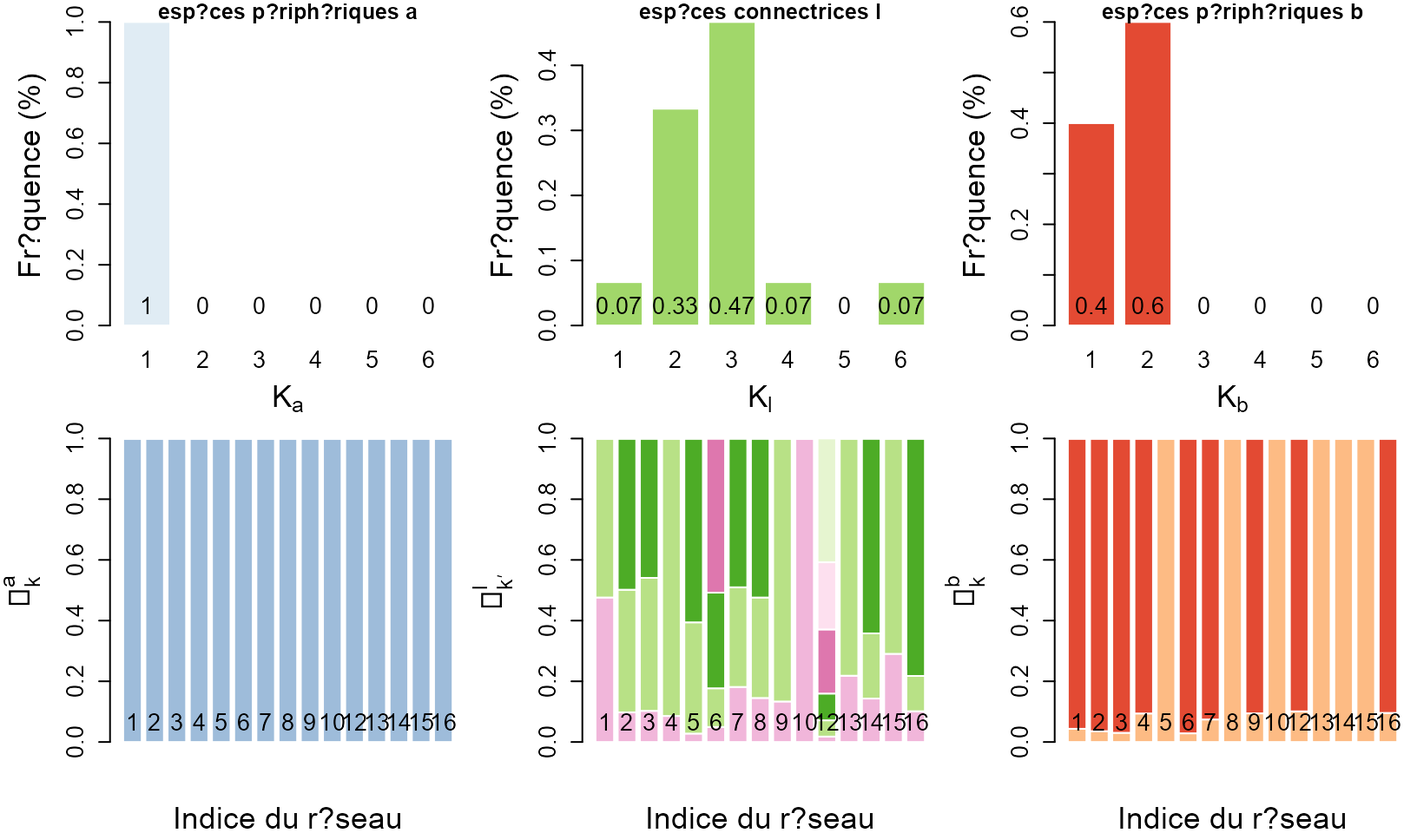
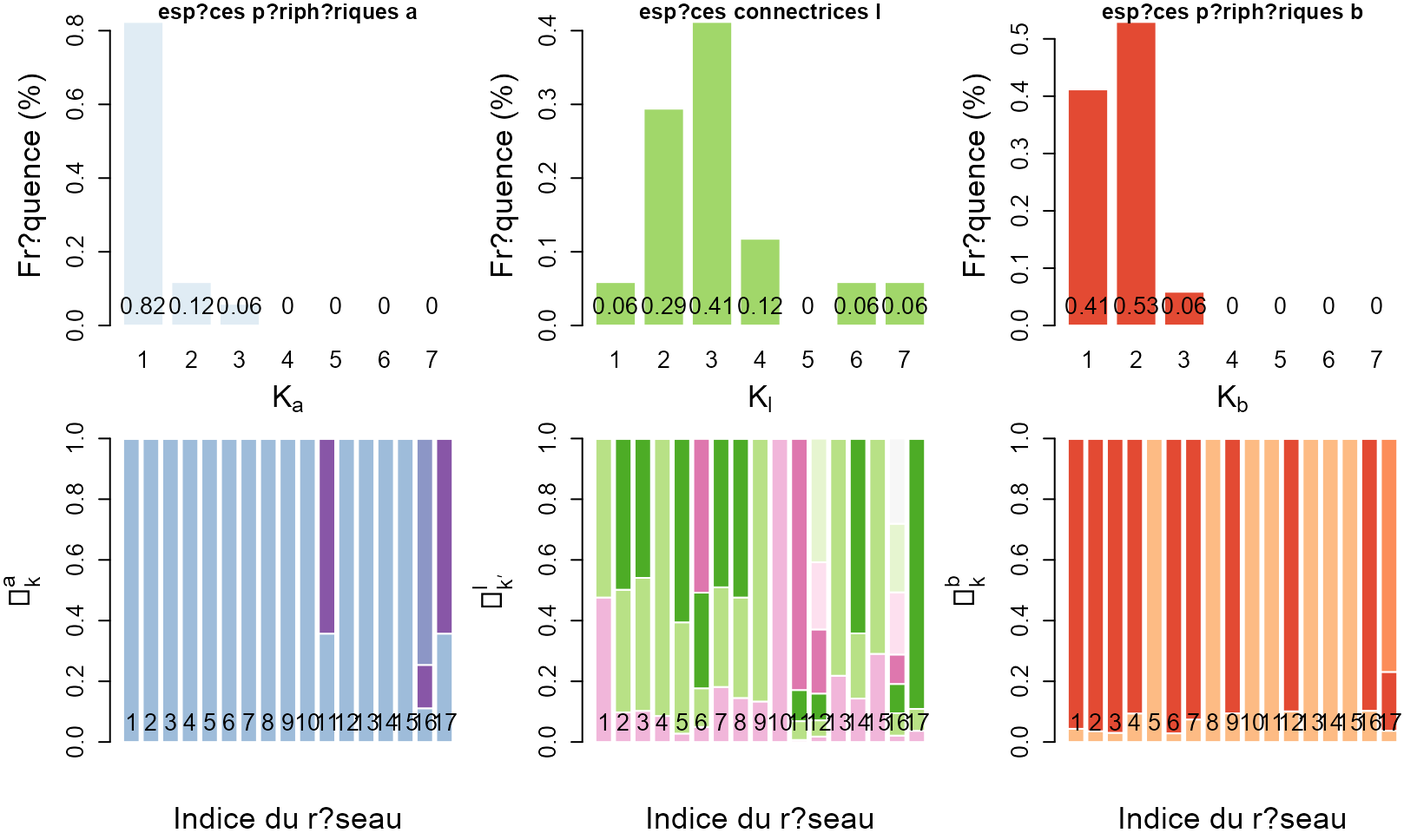
fixing vignette

diff --git a/docs/articles/Application_EcologicalNetworksDataset.html b/docs/articles/Application_EcologicalNetworksDataset.html
@@ -59,7 +59,14 @@
   </ul>
 </li>
       </ul>
-<ul class="nav navbar-nav navbar-right"></ul>
+<ul class="nav navbar-nav navbar-right">
+<li>
+  <a href="https://github.com/ferdinandcampos/analysisMultipartiteSBM/">
+    <span class="fab fa-github fa-lg"></span>
+     
+  </a>
+</li>
+      </ul>
 </div>
 <!--/.nav-collapse -->
   </div>
@@ -77,7 +84,7 @@
                         <h4 class="author">Ferdinand Campos</h4>
             
       
-      
+      <small class="dont-index">Source: <a href="https://github.com/ferdinandcampos/analysisMultipartiteSBM/blob/master/vignettes/Application_EcologicalNetworksDataset.Rmd"><code>vignettes/Application_EcologicalNetworksDataset.Rmd</code></a></small>
       <div class="hidden name"><code>Application_EcologicalNetworksDataset.Rmd</code></div>
 
     </div>
@@ -92,21 +99,21 @@
 <a href="#requirements" class="anchor"></a>Requirements</h3>
 <p>The packages required for the analysis are <strong>analysisMultipartiteSBM</strong> and some others for data manipulation or representation:</p>
 <div class="sourceCode" id="cb1"><pre class="downlit sourceCode r">
-<code class="sourceCode R"><span class="kw"><a href="https://rdrr.io/r/base/library.html">library</a></span><span class="op">(</span><span class="va">analysisMultipartiteSBM</span><span class="op">)</span></code></pre></div>
+<code class="sourceCode R"><span class="kw"><a href="https://rdrr.io/r/base/library.html">library</a></span><span class="op">(</span><span class="va"><a href="https://ferdinandcampos.github.io/analysisMultipartiteSBM">analysisMultipartiteSBM</a></span><span class="op">)</span></code></pre></div>
 </div>
 <div id="a-new-collection-of-networks" class="section level3">
 <h3 class="hasAnchor">
 <a href="#a-new-collection-of-networks" class="anchor"></a>A new collection of networks</h3>
-<p>Notre étude est motivée par une nouvelle collection de 42 réseaux tripartites récemment rassemblée et préparée par Virginia Domínguez-García dans <span class="citation"><a href="#ref-dominguez2021notes" role="doc-biblioref">Domínguez-García and Kéfi</a> (<a href="#ref-dominguez2021notes" role="doc-biblioref">In preparation</a>)</span> à partir des principales études écologiques multipartites existant dans la littérature. Les réseaux collectés sont issus de zones géographiques - et donc de type d’espèces, climat, nature des sols - différentes compte tenu de la grande variété des pays d’origine des études sources (<span class="citation"><a href="#ref-melian2009diversity" role="doc-biblioref">Melián et al.</a> (<a href="#ref-melian2009diversity" role="doc-biblioref">2009</a>)</span>, <span class="citation"><a href="#ref-shinohara2019contrasting" role="doc-biblioref">Shinohara, Uchida, and Yoshida</a> (<a href="#ref-shinohara2019contrasting" role="doc-biblioref">2019</a>)</span>, <span class="citation"><a href="#ref-pocock2012robustness" role="doc-biblioref">Pocock, Evans, and Memmott</a> (<a href="#ref-pocock2012robustness" role="doc-biblioref">2012</a>)</span>, <span class="citation"><a href="#ref-hackett2019reshaping" role="doc-biblioref">Hackett et al.</a> (<a href="#ref-hackett2019reshaping" role="doc-biblioref">2019</a>)</span>, <span class="citation"><a href="#ref-macfadyen2009differences" role="doc-biblioref">Macfadyen et al.</a> (<a href="#ref-macfadyen2009differences" role="doc-biblioref">2009</a>)</span> et <span class="citation"><a href="#ref-dattilo2016unravelling" role="doc-biblioref">Dáttilo et al.</a> (<a href="#ref-dattilo2016unravelling" role="doc-biblioref">2016</a>)</span>). Il s’agit néanmoins du premier jeu de réseaux écologiques multipartites réels unifiant différents travaux écologiques et le seul de cette ampleur. Les données comprennent 44 réseaux tripartites structurés comme ci-dessus, dont les deux interactions bipartites sont de trois natures différentes : mutualiste–antagoniste (MA), antagoniste–antagoniste (AA) et mutualiste–mutualiste (MM).</p>
-<p>Les données utilisées sont les 17 réseaux de type mutualiste-antagoniste (MA) de ce jeu de données tripartites. Les interactions de ces 17 réseaux sont de deux types, herbivorie–pollinisation (i.e. a sont des herbivores, l des plantes et b des pollinisateurs) pour 16 d’entre eux et herbivorie–dispersion de graines (i.e. a sont des herbivores, l des plantes et b des espèces qui disséminent des graines) pour un d’entre eux. Par souci de clarté, on utilisera l’appellation commune d’espèces mutualistes pour l’ensemble des 17 réseaux.</p>
-<div class="sourceCode" id="cb2"><pre class="downlit sourceCode r">
-<code class="sourceCode R"><span class="fu"><a href="https://rdrr.io/r/utils/data.html">data</a></span><span class="op">(</span><span class="va">ecologicalNetworksDataset</span><span class="op">)</span></code></pre></div>
+<p>Notre étude est motivée par une nouvelle collection de réseaux tripartites récemment rassemblée et préparée par Virginia Domínguez-García dans <span class="citation"><a href="#ref-dominguez2021notes" role="doc-biblioref">Domínguez-García and Kéfi</a> (<a href="#ref-dominguez2021notes" role="doc-biblioref">In preparation</a>)</span> à partir des principales études écologiques multipartites existant dans la littérature. Les réseaux collectés sont issus de zones géographiques - et donc de type d’espèces, climat, nature des sols - différentes compte tenu de la grande variété des pays d’origine des études sources (<span class="citation"><a href="#ref-melian2009diversity" role="doc-biblioref">Melián et al.</a> (<a href="#ref-melian2009diversity" role="doc-biblioref">2009</a>)</span>, <span class="citation"><a href="#ref-shinohara2019contrasting" role="doc-biblioref">Shinohara, Uchida, and Yoshida</a> (<a href="#ref-shinohara2019contrasting" role="doc-biblioref">2019</a>)</span>, <span class="citation"><a href="#ref-pocock2012robustness" role="doc-biblioref">Pocock, Evans, and Memmott</a> (<a href="#ref-pocock2012robustness" role="doc-biblioref">2012</a>)</span>, <span class="citation"><a href="#ref-hackett2019reshaping" role="doc-biblioref">Hackett et al.</a> (<a href="#ref-hackett2019reshaping" role="doc-biblioref">2019</a>)</span>, <span class="citation"><a href="#ref-macfadyen2009differences" role="doc-biblioref">Macfadyen et al.</a> (<a href="#ref-macfadyen2009differences" role="doc-biblioref">2009</a>)</span> et <span class="citation"><a href="#ref-dattilo2016unravelling" role="doc-biblioref">Dáttilo et al.</a> (<a href="#ref-dattilo2016unravelling" role="doc-biblioref">2016</a>)</span>). Il s’agit néanmoins du premier jeu de réseaux écologiques multipartites réels unifiant différents travaux écologiques et le seul de cette ampleur. Les données comprennent <span class="math inline">\(44\)</span> réseaux tripartites, dont les deux interactions bipartites sont de trois natures différentes : mutualiste–antagoniste (MA), antagoniste–antagoniste (AA) et mutualiste–mutualiste (MM).</p>
+<p>La structure de ces réseaux est la suivante : si l’ensemble des groupes d’espèces (GE) est donné par <span class="math inline">\(\{a,l,b\}\)</span> on suppose aussi que les seules interactions possibles sont données par <span class="math inline">\(\mathcal E=\{(a,l),(b,l)\}\)</span> ; il y a deux interactions bipartites <span class="math inline">\(a\leftrightarrow l\)</span> et <span class="math inline">\(b\leftrightarrow l\)</span>, entre chacun des groupes de périphériques (i.e. contenant des espèces périphériques) <span class="math inline">\(a\)</span> ou <span class="math inline">\(b\)</span> et le groupe des connecteurs <span class="math inline">\(l\)</span> (linking set) qui contient les espèces connectrices.</p>
+<p>Les données utilisées dans notre étude sont les <span class="math inline">\(17\)</span> réseaux de type mutualiste-antagoniste (MA) de ce jeu de données tripartites. Les interactions de ces <span class="math inline">\(17\)</span> réseaux sont de deux types, herbivorie–pollinisation (i.e. a sont des herbivores, l des plantes et b des pollinisateurs) pour <span class="math inline">\(16\)</span> d’entre eux et herbivorie–dispersion de graines (i.e. a sont des herbivores, l des plantes et b des espèces qui disséminent des graines) pour un d’entre eux. Par souci de clarté, on utilisera l’appellation commune d’espèces mutualistes pour l’ensemble des <span class="math inline">\(17\)</span> réseaux.</p>
+<p>Pour des questions de publication de données, le jeu de réseaux d’origine <span class="math inline">\(\texttt{ecologicalNetworksDataset}\)</span> (avant ou après calibration MBM) n’est pas rendu disponible ici. On peut néanmoins charger le résultat du calcul des métriques sur les blocs (voir plus bas).</p>
 </div>
 <div id="preparation-of-the-data" class="section level3">
 <h3 class="hasAnchor">
 <a href="#preparation-of-the-data" class="anchor"></a>Preparation of the data</h3>
-<div class="sourceCode" id="cb3"><pre class="downlit sourceCode r">
-<code class="sourceCode R"><span class="va">dataset_path</span><span class="op">=</span><span class="st">""</span>
+<div class="sourceCode" id="cb2"><pre class="downlit sourceCode r">
+<code class="sourceCode R"><span class="va">dataset_path</span><span class="op">=</span><span class="st">"data/ecologicalNetworksDataset/"</span>
 <span class="va">dataset_names_MA</span> <span class="op">&lt;-</span> <span class="fu"><a href="https://rdrr.io/r/base/c.html">c</a></span><span class="op">(</span><span class="st">'Sinohara_1_ALL_PH'</span>, <span class="st">'Sinohara_2_ALL_PH'</span>, <span class="st">'Sinohara_3_ALL_PH'</span>, <span class="st">'Sinohara_4_ALL_PH'</span>, <span class="st">'Sinohara_ALL_A_PH'</span>, 
                       <span class="st">'Sinohara_ALL_E_PH'</span>, <span class="st">'Sinohara_ALL_I_PH'</span>, <span class="st">'Sinohara_2_E_PH'</span>, <span class="st">'Sinohara_3_E_PH'</span>, <span class="st">'Sinohara_4_I_PH'</span>, 
                       <span class="st">'Melian_OO_OO_PH'</span>, <span class="st">'Hackett_1_ALL_PH'</span>, <span class="st">'Hackett_2_ALL_PH'</span>, <span class="st">'Hackett_1_S_PH'</span>, <span class="st">'Hackett_1_GL_PH'</span>,
@@ -114,10 +121,7 @@
 
 
 <span class="va">dataset_names</span><span class="op">&lt;-</span><span class="va">dataset_names_MA</span>
-<span class="va">Indices</span><span class="op">=</span><span class="fl">1</span><span class="op">:</span><span class="fl">17</span>
-<span class="va">study_insectes_only</span><span class="op">=</span><span class="cn">FALSE</span>
-<span class="kw">if</span> <span class="op">(</span><span class="va">study_insectes_only</span><span class="op">)</span><span class="op">{</span><span class="va">dataset_names</span><span class="op">[</span><span class="fl">16</span><span class="op">]</span><span class="op">&lt;-</span><span class="st">"PocockInsects_OO_OO_PH"</span>
-                         <span class="va">Indices</span><span class="op">&lt;-</span><span class="va">Indices</span><span class="op">[</span><span class="op">-</span><span class="fu"><a href="https://rdrr.io/r/base/c.html">c</a></span><span class="op">(</span><span class="fl">11</span>,<span class="fl">17</span><span class="op">)</span><span class="op">]</span><span class="op">}</span></code></pre></div>
+<span class="va">Indices</span><span class="op">=</span><span class="fl">1</span><span class="op">:</span><span class="fl">17</span></code></pre></div>
 </div>
 <div id="multipartite-block-model-mbm" class="section level3">
 <h3 class="hasAnchor">
@@ -145,12 +149,36 @@ X^{qq^\prime}_{ii^\prime} = \left\{
 <div id="calibrate-mbm-and-compute-metrics" class="section level3">
 <h3 class="hasAnchor">
 <a href="#calibrate-mbm-and-compute-metrics" class="anchor"></a>Calibrate MBM and compute metrics</h3>
-<p>Pour chaque réseau tripartite individuel, on calibre MBM et puis on s’intéresse aux blocs inférés dans les trois groupes d’espèces (GE). On fait le choix des 5 métriques suivantes pour classifier les blocs du groupe des connecteurs <span class="math inline">\(l\)</span>, définies pour chaque bloc <span class="math inline">\(k^\prime\in1,\dots,K_l\)</span> d’un groupe de connecteurs <span class="math inline">\(l\)</span> donné : <span class="math display">\[\left(\bar{c}_a, \bar{c}_b, \textrm{PR}_b^{sym}, \bar{c}_a^{\textrm{N}}, \bar{c}_b^{\textrm{N}}\right).\]</span></p>
+<p>Pour chaque réseau tripartite individuel, on calibre MBM et puis on s’intéresse aux blocs inférés dans les trois groupes d’espèces (GE). On fait le choix des <span class="math inline">\(5\)</span> métriques suivantes pour classifier les blocs du groupe des connecteurs <span class="math inline">\(l\)</span>, définies pour chaque bloc <span class="math inline">\(k^\prime\in1,\dots,K_l\)</span> d’un groupe de connecteurs <span class="math inline">\(l\)</span> donné : <span class="math display">\[\left(\bar{c}_a, \bar{c}_b, \textrm{PR}_b^{sym}, \bar{c}_a^{\textrm{N}}, \bar{c}_b^{\textrm{N}}\right).\]</span> On peut calculer les valeurs de métriques sur les blocs des <span class="math inline">\(17\)</span> réseaux grâce aux commandes suivantes.</p>
+<div class="sourceCode" id="cb3"><pre class="downlit sourceCode r">
+<code class="sourceCode R"><span class="va">analyseENetDataset</span><span class="op">&lt;-</span><span class="fu"><a href="../reference/analysisTripartiteSBM.html">analysisTripartiteSBM</a></span><span class="op">(</span><span class="va">dataset_path</span>,<span class="va">dataset_names</span>,<span class="va">Indices</span>,quiet<span class="op">=</span><span class="cn">TRUE</span><span class="op">)</span></code></pre></div>
+<p>On peut aussi directement charger depuis le package la table <span class="math inline">\(\texttt{analyseENetDataset}\)</span> contenant ces valeurs.</p>
 <div class="sourceCode" id="cb4"><pre class="downlit sourceCode r">
-<code class="sourceCode R"><span class="co">#analyse&lt;-analysisTripartiteSBM(dataset_path,dataset_names,Indices,quiet=TRUE)</span>
+<code class="sourceCode R"><span class="fu"><a href="https://rdrr.io/r/utils/data.html">data</a></span><span class="op">(</span><span class="va">analyseEcologicalNetworksDataset</span><span class="op">)</span>
 
-<span class="kw">if</span> <span class="op">(</span><span class="op">!</span><span class="va">study_insectes_only</span><span class="op">)</span><span class="op">{</span><span class="va">analyse</span><span class="op">&lt;-</span><span class="fu">read.xlsx</span><span class="op">(</span><span class="st">"data/analyse_réseaux_réels_6.xlsx"</span>,<span class="fl">1</span>, colNames<span class="op">=</span> <span class="cn">TRUE</span><span class="op">)</span>
-<span class="op">}</span> <span class="kw">else</span><span class="op">{</span><span class="va">analyse</span><span class="op">&lt;-</span><span class="fu">read.xlsx</span><span class="op">(</span><span class="st">"data/analyse_réseaux_réels_8_all_insects.xlsx"</span>,<span class="fl">1</span>, colNames<span class="op">=</span> <span class="cn">TRUE</span><span class="op">)</span><span class="op">}</span></code></pre></div>
+<span class="fu"><a href="https://rdrr.io/r/utils/str.html">str</a></span><span class="op">(</span><span class="va">analyseENetDataset</span><span class="op">)</span>
+<span class="co">#&gt; 'data.frame':    102 obs. of  21 variables:</span>
+<span class="co">#&gt;  $ network_id     : num  1 1 1 1 1 2 2 2 2 2 ...</span>
+<span class="co">#&gt;  $ network_name   : chr  "Sinohara_1_ALL_PH" "Sinohara_1_ALL_PH" "Sinohara_1_ALL_PH" "Sinohara_1_ALL_PH" ...</span>
+<span class="co">#&gt;  $ nb_nodes       : num  91 91 91 91 91 108 108 108 108 108 ...</span>
+<span class="co">#&gt;  $ nb_nodes_plants: num  42 42 42 42 42 41 41 41 41 41 ...</span>
+<span class="co">#&gt;  $ nb_nodes_polli : num  23 23 23 23 23 28 28 28 28 28 ...</span>
+<span class="co">#&gt;  $ nb_nodes_herbi : num  26 26 26 26 26 39 39 39 39 39 ...</span>
+<span class="co">#&gt;  $ nb_plants_clust: num  2 2 2 2 2 3 3 3 3 3 ...</span>
+<span class="co">#&gt;  $ nb_polli_clust : num  2 2 2 2 2 2 2 2 2 2 ...</span>
+<span class="co">#&gt;  $ nb_herbi_clust : num  1 1 1 1 1 1 1 1 1 1 ...</span>
+<span class="co">#&gt;  $ FG             : chr  "plants" "plants" "pollination" "pollination" ...</span>
+<span class="co">#&gt;  $ cluster_id     : chr  "1" "2" "1" "2" ...</span>
+<span class="co">#&gt;  $ cluster_pi     : num  0.4762 0.5238 0.0435 0.9565 1 ...</span>
+<span class="co">#&gt;  $ c_inter1       : num  0.2652 -0.2411 1.5157 -0.0689 NA ...</span>
+<span class="co">#&gt;  $ c_inter2       : num  -0.1 0.0909 NA NA 0 ...</span>
+<span class="co">#&gt;  $ c_tot          : num  0.0714 -0.0649 1.5157 -0.0689 0 ...</span>
+<span class="co">#&gt;  $ c_tot_sym      : num  0.0826 -0.0751 1.5157 -0.0689 0 ...</span>
+<span class="co">#&gt;  $ PR_inter1      : num  0.87 0.158 NA NA NA ...</span>
+<span class="co">#&gt;  $ PR_inter1_sym  : num  0.883 0.175 NA NA NA ...</span>
+<span class="co">#&gt;  $ cKnn_inter1    : num  0.0272 -0.304 0.0322 -0.0122 NA ...</span>
+<span class="co">#&gt;  $ cKnn_inter2    : num  0 0 NA NA 0 0 0 0 NA NA ...</span>
+<span class="co">#&gt;  $ cKnn_tot       : num  0.0043 -0.048 0.0322 -0.0122 0 ...</span></code></pre></div>
 </div>
 </div>
 <div id="caracterisation-of-the-ecological-structure" class="section level2">
@@ -161,65 +189,100 @@ X^{qq^\prime}_{ii^\prime} = \left\{
 <a href="#blocks-analysis" class="anchor"></a>Blocks analysis</h3>
 <p>Les données issues des réseaux représentent <span class="math inline">\(N=53\)</span> blocs <span class="math inline">\(k^\prime\)</span> de plantes à classifier, en interactions avec <span class="math inline">\(21\)</span> blocs d’herbivores et <span class="math inline">\(28\)</span> blocs de mutualistes.</p>
 <div class="sourceCode" id="cb5"><pre class="downlit sourceCode r">
-<code class="sourceCode R"><span class="fu">plotAnalysisTripartiteSBM</span><span class="op">(</span><span class="va">analyse</span><span class="op">)</span></code></pre></div>
+<code class="sourceCode R"><span class="fu"><a href="../reference/plotAnalysisTripartiteSBM.html">plotAnalysisTripartiteSBM</a></span><span class="op">(</span><span class="va">analyseENetDataset</span>,new.window<span class="op">=</span><span class="cn">FALSE</span><span class="op">)</span></code></pre></div>
+<p><img src="Application_EcologicalNetworksDataset_files/figure-html/plot%20block%20analysis-1.png" width="816"></p>
 </div>
 <div id="preparation-of-caracterisation" class="section level3">
 <h3 class="hasAnchor">
 <a href="#preparation-of-caracterisation" class="anchor"></a>Preparation of caracterisation</h3>
 <div class="sourceCode" id="cb6"><pre class="downlit sourceCode r">
 <code class="sourceCode R"><span class="va">FG</span><span class="op">=</span><span class="st">"plants"</span>
-<span class="kw">if</span> <span class="op">(</span><span class="op">!</span><span class="va">study_insectes_only</span><span class="op">)</span><span class="op">{</span><span class="co">#For our analysis 1</span>
-                          <span class="va">analysePlants</span><span class="op">&lt;-</span><span class="va">analyse</span><span class="op">[</span><span class="va">analyse</span><span class="op">$</span><span class="va">FG</span><span class="op">==</span><span class="va">FG</span>,<span class="op">]</span>
-                          <span class="va">metrics</span><span class="op">&lt;-</span><span class="fu"><a href="https://rdrr.io/r/base/c.html">c</a></span><span class="op">(</span><span class="st">"c_inter1"</span>,<span class="st">"c_inter2"</span>,<span class="st">"PR_inter1_sym"</span>,<span class="st">"cKnn_inter1"</span>,<span class="st">"cKnn_inter2"</span><span class="op">)</span>
-                          <span class="va">order_clusters</span><span class="op">&lt;-</span><span class="fu"><a href="https://rdrr.io/r/base/c.html">c</a></span><span class="op">(</span><span class="fl">1</span>,<span class="fl">3</span>,<span class="fl">2</span>,<span class="fl">5</span>,<span class="fl">4</span>,<span class="fl">6</span><span class="op">)</span>
-                          <span class="va">nb_clusters</span><span class="op">&lt;-</span><span class="fl">6</span>
-                          <span class="va">plotIndicesblocs</span><span class="op">&lt;-</span><span class="fl">1</span><span class="op">:</span><span class="fu"><a href="https://rdrr.io/r/base/nrow.html">nrow</a></span><span class="op">(</span><span class="va">analysePlants</span><span class="op">)</span>
-<span class="op">}</span><span class="kw">else</span><span class="op">{</span><span class="co">#For our analysis 2 (insects only)</span>
-      <span class="va">analysePlants</span><span class="op">&lt;-</span><span class="va">analyse</span><span class="op">[</span><span class="va">analyse</span><span class="op">$</span><span class="va">FG</span><span class="op">==</span><span class="va">FG</span>,<span class="op">]</span>
-      <span class="va">metrics</span><span class="op">&lt;-</span><span class="fu"><a href="https://rdrr.io/r/base/c.html">c</a></span><span class="op">(</span><span class="st">"c_inter1"</span>,<span class="st">"c_inter2"</span>,<span class="st">"PR_inter1_sym"</span>,<span class="st">"cKnn_inter1"</span><span class="op">)</span>
-      <span class="va">order_clusters</span><span class="op">&lt;-</span><span class="fu"><a href="https://rdrr.io/r/base/c.html">c</a></span><span class="op">(</span><span class="fl">2</span>,<span class="fl">1</span>,<span class="fl">3</span>,<span class="fl">5</span>,<span class="fl">4</span><span class="op">)</span>
-      <span class="va">nb_clusters</span><span class="op">&lt;-</span><span class="fl">5</span>
-      <span class="va">plotIndicesblocs</span><span class="op">&lt;-</span><span class="fl">1</span><span class="op">:</span><span class="fu"><a href="https://rdrr.io/r/base/nrow.html">nrow</a></span><span class="op">(</span><span class="va">analysePlants</span><span class="op">)</span>
-      <span class="va">plotIndicesblocs</span><span class="op">&lt;-</span><span class="va">plotIndicesblocs</span><span class="op">[</span><span class="op">-</span><span class="fu"><a href="https://rdrr.io/r/base/c.html">c</a></span><span class="op">(</span><span class="fl">27</span>,<span class="fl">28</span>,<span class="fl">29</span>,<span class="fl">30</span><span class="op">)</span><span class="op">]</span> <span class="co">#on enl?ve les 4 indices propres au r?seau 11 removed</span>
-      <span class="va">last_indice_blocs</span><span class="op">&lt;-</span><span class="va">plotIndicesblocs</span><span class="op">[</span><span class="fu"><a href="https://rdrr.io/r/base/length.html">length</a></span><span class="op">(</span><span class="va">plotIndicesblocs</span><span class="op">)</span><span class="op">]</span>
-      <span class="va">plotIndicesblocs</span><span class="op">&lt;-</span><span class="fu"><a href="https://rdrr.io/r/base/c.html">c</a></span><span class="op">(</span><span class="va">plotIndicesblocs</span>,<span class="va">last_indice_blocs</span><span class="op">+</span><span class="fl">1</span>,<span class="va">last_indice_blocs</span><span class="op">+</span><span class="fl">2</span>,<span class="va">last_indice_blocs</span><span class="op">+</span><span class="fl">3</span>,<span class="va">last_indice_blocs</span><span class="op">+</span><span class="fl">4</span><span class="op">)</span> <span class="co">#on ajoute 4 derniers num?ros</span>
-<span class="op">}</span></code></pre></div>
+<span class="va">analysePlants</span><span class="op">&lt;-</span><span class="va">analyseENetDataset</span><span class="op">[</span><span class="va">analyseENetDataset</span><span class="op">$</span><span class="va">FG</span><span class="op">==</span><span class="va">FG</span>,<span class="op">]</span>
+<span class="va">metrics</span><span class="op">&lt;-</span><span class="fu"><a href="https://rdrr.io/r/base/c.html">c</a></span><span class="op">(</span><span class="st">"c_inter1"</span>,<span class="st">"c_inter2"</span>,<span class="st">"PR_inter1_sym"</span>,<span class="st">"cKnn_inter1"</span>,<span class="st">"cKnn_inter2"</span><span class="op">)</span>
+<span class="va">order_clusters</span><span class="op">&lt;-</span><span class="fu"><a href="https://rdrr.io/r/base/c.html">c</a></span><span class="op">(</span><span class="fl">1</span>,<span class="fl">3</span>,<span class="fl">2</span>,<span class="fl">5</span>,<span class="fl">4</span>,<span class="fl">6</span><span class="op">)</span>
+<span class="va">nb_clusters</span><span class="op">&lt;-</span><span class="fl">6</span>
+<span class="va">plotIndicesblocs</span><span class="op">&lt;-</span><span class="fl">1</span><span class="op">:</span><span class="fu"><a href="https://rdrr.io/r/base/nrow.html">nrow</a></span><span class="op">(</span><span class="va">analysePlants</span><span class="op">)</span></code></pre></div>
 </div>
 <div id="clustering-analysis-to-caracterise-blocks-of-plants" class="section level3">
 <h3 class="hasAnchor">
 <a href="#clustering-analysis-to-caracterise-blocks-of-plants" class="anchor"></a>Clustering analysis to caracterise blocks of plants</h3>
 <div class="sourceCode" id="cb7"><pre class="downlit sourceCode r">
-<code class="sourceCode R"><span class="va">caracterisation</span><span class="op">&lt;-</span><span class="fu">caracTripartiteSBM</span><span class="op">(</span><span class="va">analysePlants</span>,<span class="va">metrics</span>,order_clusters<span class="op">=</span><span class="va">order_clusters</span><span class="op">)</span>
+<code class="sourceCode R"><span class="va">caracterisation</span><span class="op">&lt;-</span><span class="fu"><a href="../reference/caracTripartiteSBM.html">caracTripartiteSBM</a></span><span class="op">(</span><span class="va">analysePlants</span>,<span class="va">metrics</span>,<span class="va">nb_clusters</span><span class="op">)</span>
 
-<span class="va">caracterisation</span><span class="op">$</span><span class="va">centers</span></code></pre></div>
+<span class="va">caracterisation</span><span class="op">$</span><span class="va">centers</span>
+<span class="co">#&gt;     c_inter1   c_inter2 PR_inter1_sym cKnn_inter1 cKnn_inter2</span>
+<span class="co">#&gt; 1  0.1113756 -0.6085195     0.8597163   0.1548651  0.11727960</span>
+<span class="co">#&gt; 2 -0.5582043  0.2885937    -0.9192510  -0.7329250  0.04028911</span>
+<span class="co">#&gt; 3  2.8457136  1.0367753     0.7689613  -0.6906359  0.07255068</span>
+<span class="co">#&gt; 4  0.8952272  4.6687678    -0.4288273  -0.4471173  0.10890542</span>
+<span class="co">#&gt; 5 -0.5561838  0.2160028    -1.1429030   2.0279819  0.33243244</span>
+<span class="co">#&gt; 6 -0.2826292 -1.4540790     0.3644965   0.4030125 -8.18743083</span></code></pre></div>
 <div class="sourceCode" id="cb8"><pre class="downlit sourceCode r">
-<code class="sourceCode R"><span class="fu">plotCaracTripartiteSBM</span><span class="op">(</span><span class="va">caracterisation</span>,<span class="va">plotIndicesblocs</span><span class="op">)</span></code></pre></div>
+<code class="sourceCode R"><span class="fu"><a href="../reference/plotCaracTripartiteSBM.html">plotCaracTripartiteSBM</a></span><span class="op">(</span><span class="va">caracterisation</span>,new.window<span class="op">=</span><span class="cn">FALSE</span><span class="op">)</span></code></pre></div>
+<p><img src="Application_EcologicalNetworksDataset_files/figure-html/plot%20block%20caracterisation-1.png" width="768"></p>
 </div>
 </div>
-<div id="additionnal-analyses" class="section level2">
+<div id="additional-analyses" class="section level2">
 <h2 class="hasAnchor">
-<a href="#additionnal-analyses" class="anchor"></a>Additionnal analyses</h2>
-<div id="second-application-insects-only" class="section level3">
-<h3 class="hasAnchor">
-<a href="#second-application-insects-only" class="anchor"></a>Second application, insects only</h3>
-<div class="sourceCode" id="cb9"><pre class="downlit sourceCode r">
-<code class="sourceCode R"><span class="va">study_insectes_only</span><span class="op">=</span><span class="cn">TRUE</span></code></pre></div>
-</div>
+<a href="#additional-analyses" class="anchor"></a>Additional analyses</h2>
 <div id="appendix-1-functional-cartography" class="section level3">
 <h3 class="hasAnchor">
 <a href="#appendix-1-functional-cartography" class="anchor"></a>Appendix 1 : functional cartography</h3>
-<p>Une façon d’illustrer les connectances partielles et taux de participation réside dans l’outil de la cartographie fonctionnelle (<span class="math inline">\(\textit{functional cartography}\)</span>) introduite en écologie dans le célèbre <span class="citation"><a href="#ref-Guimera2005A" role="doc-biblioref">Guimerà and Amaral</a> (<a href="#ref-Guimera2005A" role="doc-biblioref">2005</a>)</span>, qui trace et classe des espèces dans un plan du type <span class="math inline">\((\textit{taux de participation}, \textit{degré})\)</span>.</p>
-<div class="sourceCode" id="cb10"><pre class="downlit sourceCode r">
-<code class="sourceCode R"><span class="fu">plotFunctionalCartography</span><span class="op">(</span><span class="va">analyse</span><span class="op">)</span></code></pre></div>
+<p>Une façon d’illustrer les connectances partielles et taux de participation réside dans l’outil de la cartographie fonctionnelle (functional cartography) introduite en écologie dans le célèbre <span class="citation"><a href="#ref-Guimera2005A" role="doc-biblioref">Guimerà and Amaral</a> (<a href="#ref-Guimera2005A" role="doc-biblioref">2005</a>)</span>, qui trace et classe des espèces dans un plan du type <span class="math inline">\((\textit{taux de participation}, \textit{degré})\)</span>.</p>
+<div class="sourceCode" id="cb9"><pre class="downlit sourceCode r">
+<code class="sourceCode R"><span class="fu"><a href="../reference/plotFunctionalCartography.html">plotFunctionalCartography</a></span><span class="op">(</span><span class="va">analyseENetDataset</span>,new.window<span class="op">=</span><span class="cn">FALSE</span><span class="op">)</span></code></pre></div>
+<p><img src="Application_EcologicalNetworksDataset_files/figure-html/plot%20functional%20cartography-1.png" width="480" style="display: block; margin: auto;"></p>
 </div>
 <div id="appendix-2-degree-degree-of-neighbors-inversion" class="section level3">
 <h3 class="hasAnchor">
 <a href="#appendix-2-degree-degree-of-neighbors-inversion" class="anchor"></a>Appendix 2 :degree-degree of neighbors inversion</h3>
-<p>Dans les écosystèmes plantes–pollinisateurs, une inversion en moyenne du caractère spécialiste/généraliste entre les espèces et leurs voisins est reportée dans la littérature (<span class="citation"><a href="#ref-bascompte2003nested" role="doc-biblioref">Bascompte et al.</a> (<a href="#ref-bascompte2003nested" role="doc-biblioref">2003</a>)</span>, <span class="citation"><a href="#ref-jordano1987patterns" role="doc-biblioref">Jordano</a> (<a href="#ref-jordano1987patterns" role="doc-biblioref">1987</a>)</span>). Ici on propose de retrouver ce signal à l’échelle des blocs en traçant pour les plantes et les pollinisateurs les courbes de connectances partielles <span class="math inline">\(\bar c_b\)</span> en fonction des connectances partielles moyennes des voisins <span class="math inline">\(\bar c_b^{\textrm{N}}\)</span> associées aux blocs des 16 réseaux de type herbivorie–pollinisation à l’étude.</p>
-<div class="sourceCode" id="cb11"><pre class="downlit sourceCode r">
+<p>Dans les écosystèmes plantes–pollinisateurs, une inversion en moyenne du caractère spécialiste/généraliste entre les espèces et leurs voisins est reportée dans la littérature (<span class="citation"><a href="#ref-bascompte2003nested" role="doc-biblioref">Bascompte et al.</a> (<a href="#ref-bascompte2003nested" role="doc-biblioref">2003</a>)</span>, <span class="citation"><a href="#ref-jordano1987patterns" role="doc-biblioref">Jordano</a> (<a href="#ref-jordano1987patterns" role="doc-biblioref">1987</a>)</span>). Ici on propose de retrouver ce signal à l’échelle des blocs en traçant pour les plantes et les pollinisateurs les courbes de connectances partielles <span class="math inline">\(\bar c_b\)</span> en fonction des connectances partielles moyennes des voisins <span class="math inline">\(\bar c_b^{\textrm{N}}\)</span> associées aux blocs des <span class="math inline">\(16\)</span> réseaux de type herbivorie–pollinisation à l’étude.</p>
+<div class="sourceCode" id="cb10"><pre class="downlit sourceCode r">
 <code class="sourceCode R"><span class="va">Indices_plantspollination</span><span class="op">&lt;-</span><span class="va">Indices</span><span class="op">[</span><span class="op">-</span><span class="fu"><a href="https://rdrr.io/r/base/c.html">c</a></span><span class="op">(</span><span class="fl">5</span>,<span class="fl">8</span>,<span class="fl">11</span>,<span class="fl">13</span>,<span class="fl">14</span>,<span class="fl">15</span>,<span class="fl">17</span><span class="op">)</span><span class="op">]</span>
-<span class="fu">plotDegInversion</span><span class="op">(</span><span class="va">analyse</span>,<span class="va">Indices_plantspollination</span><span class="op">)</span></code></pre></div>
+<span class="fu"><a href="../reference/plotDegInversion.html">plotDegInversion</a></span><span class="op">(</span><span class="va">analyseENetDataset</span>,<span class="va">Indices_plantspollination</span>,new.window<span class="op">=</span><span class="cn">FALSE</span><span class="op">)</span></code></pre></div>
+<p><img src="Application_EcologicalNetworksDataset_files/figure-html/plot%20deg%20inversion-1.png" width="816"></p>
+</div>
+<div id="additional-materials" class="section level3">
+<h3 class="hasAnchor">
+<a href="#additional-materials" class="anchor"></a>Additional materials</h3>
+<p>On peut afficher les distributions individuelles des blocs parmi les clusters au sein de chaque réseau.</p>
+<div class="sourceCode" id="cb11"><pre class="downlit sourceCode r">
+<code class="sourceCode R"><span class="fu"><a href="../reference/plotCaracTripartiteSBM.html">plotCaracTripartiteSBM</a></span><span class="op">(</span><span class="va">caracterisation</span>,plot.type<span class="op">=</span><span class="st">"distrib.networks"</span>,new.window<span class="op">=</span><span class="cn">FALSE</span><span class="op">)</span></code></pre></div>
+<p><img src="Application_EcologicalNetworksDataset_files/figure-html/plot%20block%20caracterisation%20distrib-1.png" width="864"> Le plan de positionnement (Multidimensional Scaling, ou MDS) peut aussi être affiché.</p>
+<div class="sourceCode" id="cb12"><pre class="downlit sourceCode r">
+<code class="sourceCode R"><span class="fu"><a href="../reference/plotCaracTripartiteSBM.html">plotCaracTripartiteSBM</a></span><span class="op">(</span><span class="va">caracterisation</span>,plot.type<span class="op">=</span><span class="st">"mds"</span>,new.window<span class="op">=</span><span class="cn">FALSE</span><span class="op">)</span></code></pre></div>
+<p><img src="Application_EcologicalNetworksDataset_files/figure-html/plot%20block%20caracterisation%20mds-1.png" width="384" style="display: block; margin: auto;"></p>
+</div>
+<div id="second-application-caracterisation-with-insects-only" class="section level3">
+<h3 class="hasAnchor">
+<a href="#second-application-caracterisation-with-insects-only" class="anchor"></a>Second application : caracterisation with insects only</h3>
+<p>On peut mener une analyse analogue en ne retenant que des insectes parmi les herbivores, en ajoutant ou changeant les assertions suivantes :</p>
+<div class="sourceCode" id="cb13"><pre class="downlit sourceCode r">
+<code class="sourceCode R"><span class="va">dataset_names</span><span class="op">&lt;-</span><span class="va">dataset_names_MA</span>
+<span class="va">dataset_names</span><span class="op">[</span><span class="fl">16</span><span class="op">]</span><span class="op">&lt;-</span><span class="st">"PocockInsects_OO_OO_PH"</span>
+<span class="va">Indices</span><span class="op">=</span><span class="fl">1</span><span class="op">:</span><span class="fl">17</span>
+<span class="va">Indices</span><span class="op">&lt;-</span><span class="va">Indices</span><span class="op">[</span><span class="op">-</span><span class="fu"><a href="https://rdrr.io/r/base/c.html">c</a></span><span class="op">(</span><span class="fl">11</span>,<span class="fl">17</span><span class="op">)</span><span class="op">]</span>
+
+<span class="fu"><a href="https://rdrr.io/r/utils/data.html">data</a></span><span class="op">(</span><span class="va">analyseEcologicalNetworksDataset_insects</span><span class="op">)</span>
+
+<span class="va">analysePlants</span><span class="op">&lt;-</span><span class="va">analyseENetDataset_insects</span><span class="op">[</span><span class="va">analyseENetDataset_insects</span><span class="op">$</span><span class="va">FG</span><span class="op">==</span><span class="va">FG</span>,<span class="op">]</span>
+<span class="va">metrics</span><span class="op">&lt;-</span><span class="fu"><a href="https://rdrr.io/r/base/c.html">c</a></span><span class="op">(</span><span class="st">"c_inter1"</span>,<span class="st">"c_inter2"</span>,<span class="st">"PR_inter1_sym"</span>,<span class="st">"cKnn_inter1"</span><span class="op">)</span>
+<span class="va">order_clusters</span><span class="op">&lt;-</span><span class="fu"><a href="https://rdrr.io/r/base/c.html">c</a></span><span class="op">(</span><span class="fl">2</span>,<span class="fl">1</span>,<span class="fl">3</span>,<span class="fl">5</span>,<span class="fl">4</span><span class="op">)</span>
+<span class="va">nb_clusters</span><span class="op">&lt;-</span><span class="fl">5</span>
+<span class="va">plotIndicesblocs</span><span class="op">&lt;-</span><span class="fl">1</span><span class="op">:</span><span class="fu"><a href="https://rdrr.io/r/base/nrow.html">nrow</a></span><span class="op">(</span><span class="va">analysePlants</span><span class="op">)</span>
+<span class="co">#on enl?ve les 4 indices propres au r?seau 11 </span>
+<span class="va">plotIndicesblocs</span><span class="op">&lt;-</span><span class="va">plotIndicesblocs</span><span class="op">[</span><span class="op">-</span><span class="fu"><a href="https://rdrr.io/r/base/c.html">c</a></span><span class="op">(</span><span class="fl">27</span>,<span class="fl">28</span>,<span class="fl">29</span>,<span class="fl">30</span><span class="op">)</span><span class="op">]</span> 
+<span class="va">last_indice_blocs</span><span class="op">&lt;-</span><span class="va">plotIndicesblocs</span><span class="op">[</span><span class="fu"><a href="https://rdrr.io/r/base/length.html">length</a></span><span class="op">(</span><span class="va">plotIndicesblocs</span><span class="op">)</span><span class="op">]</span>
+<span class="co">#on ajoute 4 derniers num?ros</span>
+<span class="va">plotIndicesblocs</span><span class="op">&lt;-</span><span class="fu"><a href="https://rdrr.io/r/base/c.html">c</a></span><span class="op">(</span><span class="va">plotIndicesblocs</span>,<span class="va">last_indice_blocs</span><span class="op">+</span><span class="fl">1</span>,<span class="va">last_indice_blocs</span><span class="op">+</span><span class="fl">2</span>,<span class="va">last_indice_blocs</span><span class="op">+</span><span class="fl">3</span>,<span class="va">last_indice_blocs</span><span class="op">+</span><span class="fl">4</span><span class="op">)</span> 
+
+<span class="fu"><a href="../reference/plotCaracTripartiteSBM.html">plotCaracTripartiteSBM</a></span><span class="op">(</span><span class="va">caracterisation</span>,<span class="va">plotIndicesblocs</span><span class="op">)</span></code></pre></div>
 <hr>
+</div>
+</div>
+<div id="references" class="section level2 unnumbered">
+<h2 class="hasAnchor">
+<a href="#references" class="anchor"></a>References</h2>
 <div id="refs" class="references csl-bib-body hanging-indent">
 <div id="ref-Barhen2020" class="csl-entry">
 Bar-Hen, Avner, Pierre Barbillon, and Sophie Donnet. 2020. <span>“Block Models for Generalized Multipartite Networks: Applications in Ecology and Ethnobiology.”</span> <em>Statistical Modelling</em>.
@@ -253,7 +316,6 @@ Pocock, Michael JO, Darren M Evans, and Jane Memmott. 2012. <span>“The Robustn
 </div>
 <div id="ref-shinohara2019contrasting" class="csl-entry">
 Shinohara, Naoto, Kei Uchida, and Takehito Yoshida. 2019. <span>“Contrasting Effects of Land-Use Changes on Herbivory and Pollination Networks.”</span> <em>Ecology and Evolution</em> 9 (23): 13585–95.
-</div>
 </div>
 </div>
 </div>

diff --git a/docs/reference/plotCaracTripartiteSBM.html b/docs/reference/plotCaracTripartiteSBM.html
@@ -131,8 +131,8 @@
 
     <pre class="usage"><span class='fu'>plotCaracTripartiteSBM</span><span class='op'>(</span>
   <span class='va'>caracterisation</span>,
-  plot.type <span class='op'>=</span> <span class='st'>"main"</span>,
   plotIndicesblocs <span class='op'>=</span> <span class='fl'>1</span><span class='op'>:</span><span class='fu'><a href='https://rdrr.io/r/base/nrow.html'>nrow</a></span><span class='op'>(</span><span class='va'>caracterisation</span><span class='op'>$</span><span class='va'>data</span><span class='op'>$</span><span class='va'>analysePlants</span><span class='op'>)</span>,
+  plot.type <span class='op'>=</span> <span class='st'>"main"</span>,
   new.window <span class='op'>=</span> <span class='cn'>TRUE</span>
 <span class='op'>)</span></pre>
 
@@ -144,12 +144,12 @@
       <td><p>à faire</p></td>
     </tr>
     <tr>
-      <th>plot.type</th>
-      <td><p>type du plot entre le principal, "main", ou les deux annexes "distrib.networks" et "mds"</p></td>
-    </tr>
-    <tr>
       <th>plotIndicesblocs</th>
       <td><p>à faire</p></td>
+    </tr>
+    <tr>
+      <th>plot.type</th>
+      <td><p>type du plot entre le principal, "main", ou les deux annexes "distrib.networks" et "mds"</p></td>
     </tr>
     <tr>
       <th>new.window</th>
